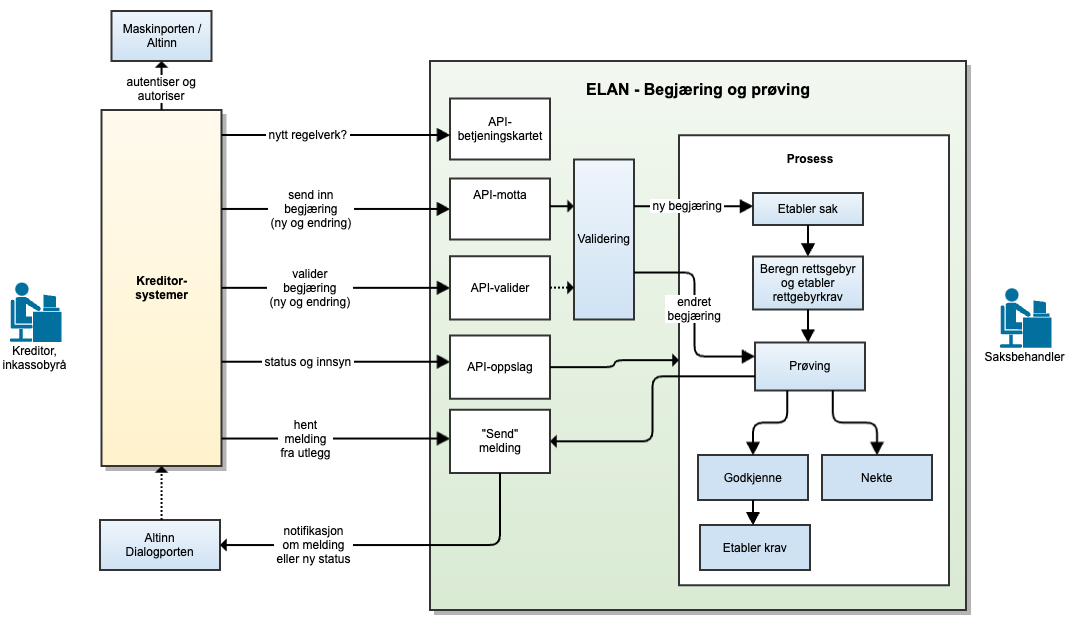
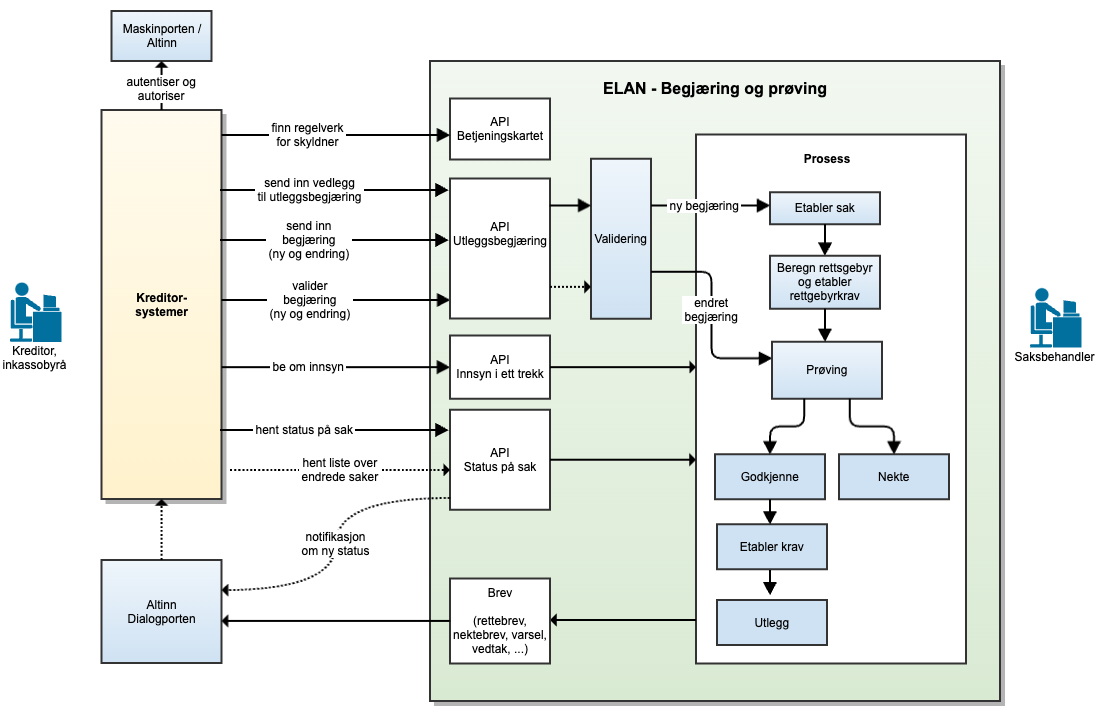
FIUT-9989 utleggsbegjæring - dokumentasjon av status på sak

Changed region(s): [[0.0911, 0.0, 0.9715, 0.9952], [0.0, 0.3921, 0.0607, 0.6032]]

diff --git a/docs/api/utleggsbegjaering.md b/docs/api/utleggsbegjaering.md
@@ -53,9 +53,15 @@ opp følgende tjeneste i Altinn for å delegere tilgangen: `Utleggstrekkbegjæri
 
 ## Teknisk spesifikasjon
 
-URL-er til API-et, beskrivelsen av parameterne, endepunkter og respons ligger som spesifikasjoner på SwaggerHub:
-* [OpenAPI spesifikasjon for Utleggsbegjæring](https://app.swaggerhub.com/apis/skatteetaten/utleggsbegjaering-api)
-* [OpenAPI spesifikasjon for innsyn ifm Utlegg](https://app.swaggerhub.com/apis/skatteetaten/utleggsbegjaering-innsyn-api)
+Tjenestene knyttet til begjæring om utlegg er gruppert i ulike APIer, som agitt i tabellen nedenfor. URL-er til API-et, beskrivelsen av parameterne, endepunkter og respons ligger som spesifikasjoner på SwaggerHub.
+
+| API                | Beskrivelse av tjenester                                                                                                                                                                 | Swaggerhub                                                                                                                        |
+|:-------------------|:-----------------------------------------------------------------------------------------------------------------------------------------------------------------------------------------|:----------------------------------------------------------------------------------------------------------------------------------| 
+| Utleggsbegjæring   | Tjenester for innsending og oppfølging av utleggsbegjæringer. Herunder tjenester for opplasting av vedlegg, innsending av utleggsbegjæring, endring av utleggsbegjæring samt validering. | [OpenAPI spesifikasjon for utleggsbegjæring](https://app.swaggerhub.com/apis/skatteetaten/utleggsbegjaering-api)                  |
+| Innsyn i ett trekk | Tjenester for innsyn i samordnet trekk.                                                                                                                                                  | [OpenAPI spesifikasjon for innsyn i ett trekk](https://app.swaggerhub.com/apis/skatteetaten/utleggsbegjaering-innsyn-api)         |
+| Status på sak      | Tjenester for å hente status på en utleggssak, inklusive informasjon om krav og beslutninger. Tjeneste for å notifikasjon om statusendringer på sak                                      | [OpenAPI spesifikasjon for status på sak](https://app.swaggerhub.com/apis/skatteetaten/utleggsbegjaering-status-paa-sak-api)      |
+| Betjeningskartet   | Tjenester for [overgangsperioden](utleggsbegjaering.md#Overgangsperiode-for-utleggsbegjæring)                                                                                            | [OpenAPI spesifikasjon for betjeningskartet](https://app.swaggerhub.com/apis/skatteetaten/utleggsbegjaering-betjeningskartet-api) |
+
 
 ## Datakatalog
 
@@ -102,6 +108,10 @@ I overgangsperioden skal digitale utleggsbegjæringer for skyldnere som er omfat
 ## Betjeningskartet {#betjeningskartet-id}
 
 For å avgjøre hvorvidt en skyldner er omfattet av nytt eller gammelt regelverk, kan innkassosystemet benytte en API-tjeneste kalt "Betjeningskartet". Her kan man slå opp gjeldende regelverk for en eller flere skyldnere på identifikator (fødselsnummer). Tjenesten skal kalles rett i forkant av innsending av en ny utleggsbegjæring gjennom API, slik at innsendingen gjøres til riktig system (ELSA eller ELAN). URL-er til betjeningskart API-et, beskrivelsen av parameterne, endepunkter og respons ligger i [OpenAPI spesifikasjonen for betjeningskartet](https://app.swaggerhub.com/apis/skatteetaten/utleggsbegjaering-betjeningskartet-api) på SwaggerHub.
+
+:::warning[Merknad]
+Vi ønsker ikke at dere kaller tjenesten unødig. Tjenesten skal kun brukes til å avklare i forkant av en innsending hvorvidt skyldner er på nytt eller gammelt regelverk.
+:::
 
 ![Betjeningskartet](../../static/download/utleggsbegjaering/Betjeningskartet.png)
 
@@ -325,6 +335,17 @@ Eksempelet nedenfor bruker testparter fra Tenor. De syntetiske dataene i dokumen
 Eksempelet nedenfor er noe mer komplisert, med flere tvangsgrunnlag.
 
 [utleggsbegjaering-kompleks-v09.json](../../static/download/utleggsbegjaering/begjaering-v0-kompleks.json)
+
+</p>
+</details>
+
+ <details>
+      <summary>Status på sak</summary>
+<p>
+
+Når Kreditor har sendt inn en utleggsbegjæring, kan man få status på saken ved å bruke tjenesten "Status på sak". Tjenesten gir informasjon om sakens tilstand, og hvilken beslutning som eventuelt er fattet i saken. Når beslutning er fattet angir tjenesten informasjon om alle krav som følges opp av beslutningen. Dette inkluderer informasjon om kravenes kravgrunnlagsidentifikator, som er den Identifikator som Alminnelig Namsmann har gitt de enkelte krav. Denne identifikatoren kan brukes til å angi spesifikke krav dersom Kreditor senere for eksempel ønsker å melde en innbetaling på kravet.
+
+![Informasjonsmodell-status-paa-sak](../../static/download/utleggsbegjaering/status-paa-sak.png)
 
 </p>
 </details>

diff --git a/docs/api/utleggstrekk-fra-kommune.md b/docs/api/utleggstrekk-fra-kommune.md
@@ -67,7 +67,7 @@ Dette API-et finnes foreløpig ikke i Felles datakatalog.
 
 ## Tilgang til tjenesten
 
-For informasjon om hvordan få tilgang til tjenesten se [Inforrmasjon om tilgang til tjenesten for utleggsbegjæring](utleggsbegjaering.md#Tilgang-til-tjenesten)
+For informasjon om hvordan få tilgang til tjenesten se [Informasjon om tilgang til tjenesten for utleggsbegjæring](utleggsbegjaering.md#Tilgang-til-tjenesten)
 
 </TabItem>
 <TabItem headerText="Overgangsperioden" itemKey="itemKey-Overgangsperioden">
